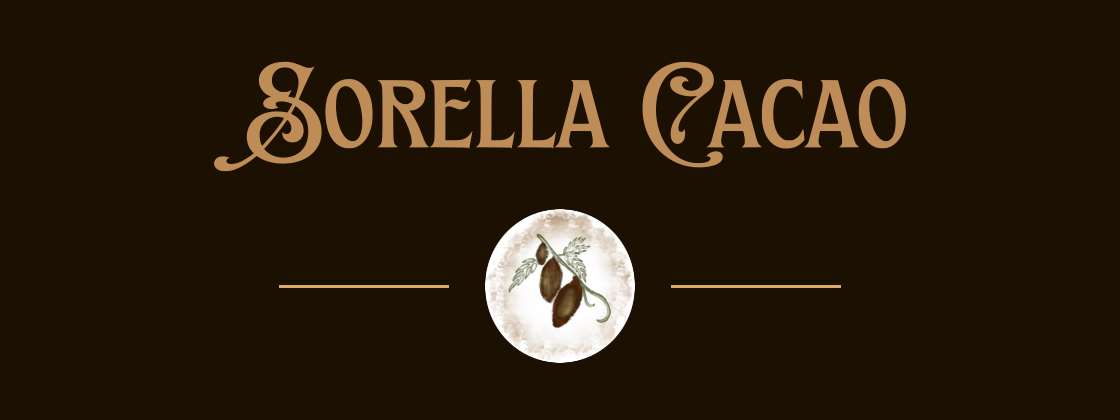
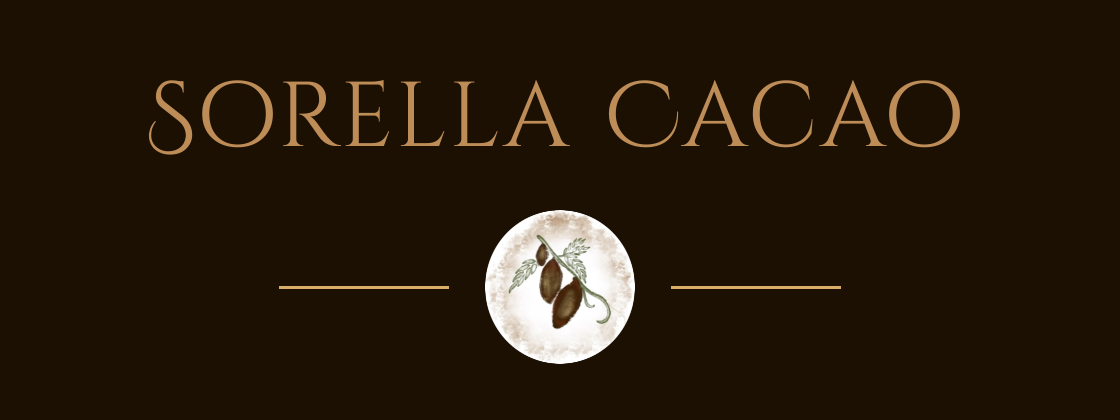
Sorella Cacao wordmark in Cinzel Decorative on the website and email header

diff --git a/src/components/wordmark.tsx b/src/components/wordmark.tsx
@@ -1,14 +1,15 @@
+import { Cinzel_Decorative } from "next/font/google";
+
+const cinzel = Cinzel_Decorative({ subsets: ["latin"], weight: "400" });
+
 /**
- * The "Sorella Cacao" wordmark in EFCO Brookshire, traced from the Canva label artwork
- * (the font itself has no web licence). Inherits the text colour.
+ * The "Sorella Cacao" wordmark, in Cinzel Decorative (as on the automatic emails). Inherits the text
+ * colour; size it with a font size. Hidden from screen readers, so put the name beside it.
  */
-export function Wordmark({ className }: { className?: string }) {
+export function Wordmark({ className = "" }: { className?: string }) {
   return (
-    <svg viewBox="0 0 2251 377" fill="currentColor" aria-hidden className={className}>
-      <path
-        fillRule="evenodd"
-        d="M 225 13.1 C 167.4 18.4,138.9 65.7,169.2 105.8 C 174.2 112.5,183.4 119.3,191.1 122.1 L 197 124.3 190.6 126.4 C 164.4 135.3,164.6 159.5,191 164 C 198.3 165.2,204.6 164.5,214.8 161.4 C 219.6 159.8,221.8 158,218.6 158 C 214 158,209.5 149.6,211.9 145.2 C 215.9 137.7,241.4 138.1,259.9 146.1 L 265 148.2 263.2 151.4 C 262.2 153.1,258.7 159.4,255.4 165.3 C 250.4 174.5,249.2 176,247.5 175.5 C 241.4 173.8,225.1 172,215.5 172 C 162.6 172.1,124.8 200.4,118.9 244.5 C 116.1 266,122.6 287.5,136.7 303.1 L 140.5 307.3 137 310.2 C 131.1 315.2,111.9 327.6,103.6 331.9 C 78.3 344.8,52.9 344.9,53 332.1 C 53 327.7,55.4 324.6,60 322.7 L 63.5 321.3 56.2 319 C 46.7 316.1,32.8 316.4,26.5 319.7 C 6.5 330.2,9.6 355.3,31.7 362.6 C 39.3 365.1,59.3 365.1,69.5 362.6 C 90.8 357.4,118.8 341.6,144.5 320.2 C 147.2 317.9,149.8 316,150.3 316 C 150.8 316,153.2 317.4,155.7 319.1 C 172.6 330.7,196.7 338.3,222.3 339.9 C 281.2 343.6,329.3 321.2,349.5 280.5 C 355.7 268.1,358 258.3,358.7 242.5 C 360.5 198.7,337.4 160.2,296.7 139.1 C 291.7 136.5,286.9 134.1,286.2 133.9 C 285.3 133.6,286.7 129.5,291.1 120 C 294.4 112.6,301.5 96.8,306.7 85 C 317.5 60.4,325.1 45.2,331.5 35.4 C 337 26.9,337 26.5,331.8 29.3 C 328.9 30.8,325.2 31.6,320.5 31.8 C 312.6 32.2,308.9 31.2,287.5 22.3 C 264.4 12.7,250.9 10.8,225 13.1 M 1512.5 13 C 1460.6 18.5,1421.8 47.6,1402.6 95.3 C 1390.2 126,1387.4 167.4,1395.1 205.4 C 1409.7 277.5,1466.2 334.8,1536.5 348.9 C 1582.9 358.2,1636.1 348.6,1645.9 329.2 C 1653.7 313.7,1645 300.5,1627 300.6 C 1615.2 300.7,1604.4 306,1598.1 314.8 L 1596.2 317.5 1600.4 317.2 C 1610.8 316.3,1612.7 327.4,1603.1 332.8 C 1597 336.3,1588.3 338.1,1575 338.6 C 1525.1 340.9,1481.9 312.9,1455.9 261.5 C 1418.8 188.1,1430.6 84.8,1480.4 47.5 C 1494.4 37,1507.4 32.4,1525.5 31.3 C 1549.8 29.9,1574 40.9,1581.3 56.7 C 1584.5 63.6,1584.4 78.3,1581.1 85.7 C 1573.8 102.1,1552.7 109.9,1533.4 103.4 C 1517 97.9,1512.3 81,1525.5 75.4 C 1528.8 74.1,1535.6 74.5,1536.6 76.1 C 1537.7 78,1539.1 76.9,1538.5 74.8 C 1533.3 57.2,1501.4 52.8,1485.7 67.4 C 1477.3 75.2,1477.6 92.7,1486.4 102.7 C 1499.2 117.2,1530.6 126.2,1557.4 123.1 C 1562.4 122.5,1566.5 122.2,1566.6 122.3 C 1566.8 122.4,1562.1 126.3,1556.2 131 C 1532.7 149.8,1507.8 177.1,1495.1 197.9 C 1474.2 232.4,1477.3 273.4,1501 276.6 C 1510.9 277.9,1519.6 272.6,1524.7 262.2 C 1528 255.4,1529 241.8,1526.7 233.5 L 1525.3 228.5 1523.2 232.6 C 1520.9 237.2,1519.5 238,1514.5 238 C 1503.8 238,1503.6 220.2,1513.9 199.5 C 1525.9 175.7,1553.1 145.6,1585 121 C 1605.5 105.2,1609.1 101.9,1613.1 95.8 C 1618.3 87.6,1620.3 80.5,1620.2 70 C 1620.1 46.2,1605.2 29.4,1575.5 19.6 C 1559 14.1,1530.3 11.1,1512.5 13 M 232 31.1 C 212.8 34.4,199 51.3,199 71.5 C 199 88,206.5 99.7,221.6 106.7 C 226.9 109.2,228.6 109.5,238.5 109.5 C 248.9 109.5,249.8 109.3,255.9 106.2 C 259.4 104.5,262.5 103.2,262.7 103.4 C 262.9 103.6,260.4 108.3,257.1 113.9 C 251.4 123.5,251.2 124,253.3 124.4 C 257.9 125.3,270.5 128.3,271.7 128.7 C 274.3 129.7,282.3 103.5,284.1 87.8 C 287.2 61.2,277 40.4,257.3 33 C 250.8 30.6,239.7 29.7,232 31.1 M 440 68.1 C 392.9 71.9,366.3 120.7,371.9 192.4 C 376.2 245.9,397.7 280.9,431.5 289.5 C 439.3 291.5,455.5 291.4,463.3 289.4 C 484.4 284,503.2 265.1,513.1 239.5 C 520.9 219.6,523.5 201.1,522.7 172.7 C 521.6 131.7,510.7 102.7,489 83.5 C 475.2 71.1,460.4 66.5,440 68.1 M 1847.3 68.2 C 1816.4 70.6,1793.6 90.3,1782.1 124.6 C 1776.5 141.2,1774.7 154.6,1774.7 180 C 1774.6 204.2,1775.7 213.9,1780.6 230.9 C 1792.8 273.1,1824.7 296.1,1863.9 291.1 C 1881 288.9,1892.6 283.4,1904.1 272 L 1911.8 264.5 1910.4 250 C 1908.1 226,1907.7 225.1,1903.5 235.5 C 1898.3 248.1,1890.3 257,1879 262.4 C 1873 265.3,1871.8 265.5,1862 265.4 C 1853.6 265.4,1850.6 265,1847 263.3 C 1820.9 251.3,1807.4 211.9,1812 161.5 C 1815.2 126.6,1826.3 103.3,1843.7 94.5 C 1852.1 90.2,1866.5 90.1,1875.5 94.3 C 1886.1 99.3,1896.9 112.3,1902.5 127 C 1904 130.9,1905.5 133.9,1905.7 133.6 C 1906.3 133,1904.3 84.3,1903.4 77.3 C 1902.9 73.2,1902.9 73.2,1900 74.2 C 1897.1 75.2,1894.5 74.7,1876.5 69.6 C 1870.1 67.9,1859 67.3,1847.3 68.2 M 2155 68.1 C 2107.9 71.9,2081.3 120.7,2086.9 192.4 C 2091.2 245.9,2112.7 280.9,2146.5 289.5 C 2154.3 291.5,2170.5 291.4,2178.3 289.4 C 2199.4 284,2218.2 265.1,2228.1 239.5 C 2235.9 219.6,2238.5 201.1,2237.7 172.7 C 2236.6 131.7,2225.7 102.7,2204 83.5 C 2190.2 71.1,2175.4 66.5,2155 68.1 M 836.6 69.8 C 836.2 70.2,806.5 70.7,770.7 71 C 720.8 71.4,706.1 71.8,708 72.6 C 714.7 75.7,719.1 82.8,721.2 93.6 C 723.1 103.7,723.1 255.4,721.2 265.5 C 719.4 275.2,715.7 281.5,710 284.8 L 705.5 287.5 767 288 C 822.3 288.4,828.8 288.7,831.1 290.2 L 833.7 291.8 838.5 265.2 C 841.1 250.5,843.5 237.9,843.8 237.2 C 845 233.8,841.8 236.7,839.2 241.3 C 835.5 247.9,826.1 256.6,819.5 259.6 C 809.3 264.3,804.1 265,779.8 265 L 757 265 757 212 L 757 159.1 760.1 157.4 C 766.5 154.2,772.8 155.2,791.3 162.6 C 799 165.7,801.1 166.2,806.4 165.8 C 817.8 165,826.9 158,833.4 144.9 C 838 135.7,838 133.9,833.5 137.8 C 827.4 143.2,817.2 143.3,804.6 137.9 C 788.9 131.3,777.2 131.6,767.5 138.9 C 764.6 141.1,761.2 144.5,760 146.4 C 758.8 148.4,757.6 150,757.4 150 C 757.2 150,757 137.1,757 121.4 L 757 92.9 783.2 93.2 C 806.1 93.5,809.9 93.7,812.7 95.3 C 816.8 97.5,819.1 100.9,819.2 105 C 819.3 106.7,819.6 108.2,820 108.5 C 820.5 108.8,835.2 80.4,838.7 72.2 C 840 69,838.8 67.5,836.6 69.8 M 538.5 71.9 C 538.8 72.5,539.7 73,540.3 73 C 542.3 73,547.7 78.4,549.9 82.7 C 554.3 91.4,554.5 96,554.5 179.5 C 554.5 264.9,554.3 267.9,549.2 277.3 C 547.5 280.5,545.1 283,542.3 284.7 C 539.9 286.1,538 287.4,538 287.6 C 538 287.8,553.1 288,571.5 288 C 589.9 288,605 287.7,605 287.2 C 605 286.8,603.5 285.8,601.7 284.9 C 600 284,597.2 281.5,595.6 279.3 C 589.9 271.2,589.7 268.8,589.3 207.1 L 588.9 150.7 592.8 153.9 C 595 155.6,599.4 159.8,602.6 163.2 C 622.6 184.8,647.2 239.9,648.7 266.6 C 649.3 276.8,648.1 280.5,642.7 285.2 L 639.5 287.9 672.2 288 C 690.3 288,705 287.6,705 287.2 C 705 286.7,703.8 285.7,702.4 285 C 696.4 281.7,690.4 270.9,682.5 249 C 671.5 218.2,658.4 192.2,645.6 175.4 C 641.4 169.9,641.7 169,647.3 169 C 666 168.9,685.6 153.3,690.4 134.5 C 696.3 112.2,686.2 89.7,665.5 78.8 C 651.6 71.6,652.7 71.7,592.2 71.3 C 554.2 71,538 71.2,538.5 71.9 M 854.5 72 C 854.8 72.5,855.7 73,856.3 73 C 858.3 73,863.7 78.4,865.9 82.7 C 870.3 91.4,870.5 96,870.5 179.5 C 870.5 264.9,870.3 267.9,865.2 277.3 C 863.4 280.6,861.1 283,858 284.8 L 853.5 287.5 910 288 C 941.1 288.3,966.6 288.7,966.7 288.8 C 968.9 291.5,969.9 291.9,970.4 290.3 C 971.6 286.1,980.1 237.7,979.8 236.8 C 979.6 236.2,977.7 238.5,975.7 241.8 C 971.2 249,964.5 255.2,956.9 259 C 947.3 263.9,941 265,922.1 265 L 904.9 265 905.3 180.2 C 905.6 90.6,905.6 90.2,910.3 81.4 C 911.8 78.4,915.3 75,919.6 72.3 C 921.1 71.4,914.3 71.1,887.7 71.1 C 865.4 71,854.1 71.3,854.5 72 M 987.5 72 C 987.8 72.5,988.7 73,989.3 73 C 991.3 73,996.7 78.4,998.9 82.7 C 1003.3 91.4,1003.5 96,1003.5 179.5 C 1003.5 264.9,1003.3 267.9,998.2 277.3 C 996.4 280.6,994.1 283,991 284.8 L 986.5 287.5 1043 288 C 1074.1 288.3,1099.6 288.7,1099.7 288.8 C 1101.9 291.5,1102.9 291.9,1103.4 290.3 C 1104.6 286.1,1113.1 237.7,1112.8 236.8 C 1112.6 236.2,1110.7 238.5,1108.7 241.8 C 1104.2 249,1097.5 255.2,1089.9 259 C 1080.3 263.9,1074 265,1055.1 265 L 1037.9 265 1038.3 180.2 C 1038.6 90.6,1038.6 90.2,1043.3 81.4 C 1044.8 78.4,1048.3 75,1052.6 72.3 C 1054.1 71.4,1047.3 71.1,1020.7 71.1 C 998.4 71,987.1 71.3,987.5 72 M 1163.2 73.2 C 1164.7 74.5,1166.4 76.8,1167 78.3 C 1168.8 83.2,1168.1 96.8,1165.6 108 C 1161 128,1126 261,1123.6 267.4 C 1120.2 276.3,1116.4 281.7,1111.3 284.7 C 1108.9 286,1107 287.4,1107 287.6 C 1107 287.8,1120.1 288,1136.1 288 L 1165.2 288 1160.8 283.7 C 1154.1 277.2,1153.2 268,1157.5 247.5 C 1158.9 240.9,1160 235.4,1160 235.3 C 1160 235.1,1174.7 235.1,1192.7 235.2 L 1225.4 235.5 1227.7 244.5 C 1230.7 256,1231.7 271.2,1230 276.6 C 1229.3 278.7,1226.9 282.2,1224.7 284.2 L 1220.7 288 1254.1 287.9 C 1280.4 287.9,1287.1 287.6,1285.6 286.7 C 1281.1 283.9,1276.2 278.8,1273.8 274.3 C 1270 267.4,1268.5 262,1241.6 162 L 1217.3 71.5 1188.9 71.2 L 1160.5 71 1163.2 73.2 M 1652.2 73.2 C 1653.7 74.5,1655.4 76.8,1656 78.3 C 1657.8 83.2,1657.1 96.8,1654.6 108 C 1650 128,1615 261,1612.6 267.4 C 1609.2 276.3,1605.4 281.7,1600.3 284.7 C 1597.9 286,1596 287.4,1596 287.6 C 1596 287.8,1609.1 288,1625.1 288 L 1654.2 288 1649.8 283.7 C 1643.1 277.2,1642.2 268,1646.5 247.5 C 1647.9 240.9,1649 235.4,1649 235.3 C 1649 235.1,1663.7 235.1,1681.7 235.2 L 1714.4 235.5 1716.7 244.5 C 1719.7 256,1720.7 271.2,1719 276.6 C 1718.3 278.7,1715.9 282.2,1713.7 284.2 L 1709.7 288 1743.1 287.9 C 1769.4 287.9,1776.1 287.6,1774.6 286.7 C 1770.1 283.9,1765.2 278.8,1762.8 274.3 C 1759 267.4,1757.5 262,1730.6 162 L 1706.3 71.5 1677.9 71.2 L 1649.5 71 1652.2 73.2 M 1965.2 73.2 C 1966.7 74.5,1968.4 76.8,1969 78.3 C 1970.8 83.2,1970.1 96.8,1967.6 108 C 1963 128,1928 261,1925.6 267.4 C 1922.2 276.3,1918.4 281.7,1913.3 284.7 C 1910.9 286,1909 287.4,1909 287.6 C 1909 287.8,1922.1 288,1938.1 288 L 1967.2 288 1962.8 283.7 C 1956.1 277.2,1955.2 268,1959.5 247.5 C 1960.9 240.9,1962 235.4,1962 235.3 C 1962 235.1,1976.7 235.1,1994.7 235.2 L 2027.4 235.5 2029.7 244.5 C 2032.7 256,2033.7 271.2,2032 276.6 C 2031.3 278.7,2028.9 282.2,2026.7 284.2 L 2022.7 288 2056.1 287.9 C 2082.4 287.9,2089.1 287.6,2087.6 286.7 C 2083.1 283.9,2078.2 278.8,2075.8 274.3 C 2072 267.4,2070.5 262,2043.6 162 L 2019.3 71.5 1990.9 71.2 L 1962.5 71 1965.2 73.2 M 426.2 93.1 C 413.1 99.6,406.2 117.5,405.3 148 C 403.6 203.4,423.9 257.3,450.1 266.5 C 463.1 271.1,475 265.3,481.8 250.9 C 499.7 212.8,486.2 129.4,457.5 100.7 C 448.2 91.3,435.9 88.4,426.2 93.1 M 2141.2 93.1 C 2128.1 99.6,2121.2 117.5,2120.3 148 C 2118.6 203.4,2138.9 257.3,2165.1 266.5 C 2178.1 271.1,2190 265.3,2196.8 250.9 C 2214.7 212.8,2201.2 129.4,2172.5 100.7 C 2163.2 91.3,2150.9 88.4,2141.2 93.1 M 589.3 102.2 C 590.6 127.8,605.6 146.9,625.8 148.7 C 656.6 151.5,665.3 111.4,637.1 97 C 629.3 93.1,622.5 92,605.1 92 L 588.7 92 589.3 102.2 M 1190.6 111.1 C 1190.3 111.9,1184.9 134.1,1178.5 160.5 C 1172.1 186.9,1166.7 209.3,1166.4 210.2 C 1165.9 211.9,1167.6 212,1192.4 212 C 1207 212,1219 211.7,1219 211.3 C 1219 210.2,1191.8 110.6,1191.4 110.1 C 1191.2 109.9,1190.8 110.3,1190.6 111.1 M 1679.6 111.1 C 1679.3 111.9,1673.9 134.1,1667.5 160.5 C 1661.1 186.9,1655.7 209.3,1655.4 210.2 C 1654.9 211.9,1656.6 212,1681.4 212 C 1696 212,1708 211.7,1708 211.3 C 1708 210.2,1680.8 110.6,1680.4 110.1 C 1680.2 109.9,1679.8 110.3,1679.6 111.1 M 1992.6 111.1 C 1992.3 111.9,1986.9 134.1,1980.5 160.5 C 1974.1 186.9,1968.7 209.3,1968.4 210.2 C 1967.9 211.9,1969.6 212,1994.4 212 C 2009 212,2021 211.7,2021 211.3 C 2021 210.2,1993.8 110.6,1993.4 110.1 C 1993.2 109.9,1992.8 110.3,1992.6 111.1 M 271.4 160.2 C 269.9 163.1,267 168.5,264.9 172.2 C 262.7 175.8,261 179.1,261 179.4 C 261 179.7,263.4 181.2,266.2 182.6 C 278.4 188.8,286.8 195.9,292.6 205.2 C 311.9 235.8,297.2 272,265.6 272 C 246.7 272,233.7 261,232.3 243.8 C 231.8 237.9,231.9 237.6,233.4 239.6 C 237.2 244.8,247.8 246.6,253.6 243.1 C 260.1 239.2,263.2 228.1,260.6 218.1 C 258.6 210.3,251.7 199.9,248.6 200 C 248 200.1,245 203.7,242 208.2 C 227.4 229.9,201.2 263.1,183.1 282.8 C 178.4 287.9,174.5 292.5,174.5 293.1 C 174.5 295.1,186.2 305.7,192.7 309.6 C 219.2 325.5,256.8 324.8,282.2 308.1 C 304.5 293.4,316.1 269.5,316.1 238.1 C 316 210.3,307.1 186.4,289.8 167.4 C 285.3 162.6,276.1 155,274.6 155 C 274.3 155,272.8 157.4,271.4 160.2 M 207.5 190 C 185.3 193,167.3 209.5,161.3 232.4 C 157.8 245.6,159.8 267.6,165.4 278.8 L 167.6 283.2 180.2 269.3 C 194.6 253.5,205.4 240.6,215.6 226.9 C 225.5 213.8,238 195.4,238 194.2 C 238 192.7,232.7 191.2,224 190 C 215.6 188.9,215.8 188.9,207.5 190"
-      />
-    </svg>
+    <span aria-hidden className={`${cinzel.className} block whitespace-nowrap leading-none tracking-wide ${className}`}>
+      Sorella Cacao
+    </span>
   );
 }

diff --git a/src/app/page.tsx b/src/app/page.tsx
@@ -25,7 +25,7 @@ export default async function Home() {
         <div className="relative px-5 pt-20 text-center">
           <h1 className="text-toffee drop-shadow-lg">
             <span className="sr-only">{site.name}</span>
-            <Wordmark className="mx-auto w-[min(88vw,46rem)]" />
+            <Wordmark className="text-[clamp(2.2rem,9.5vw,6rem)]" />
           </h1>
           <p className="mx-auto mt-6 max-w-xl text-xl italic text-cream/90 sm:text-2xl">
             {site.tagline}

diff --git a/src/components/footer.tsx b/src/components/footer.tsx
@@ -17,7 +17,7 @@ export function Footer() {
               height={53}
               className="rounded-full"
             />
-            <Wordmark className="h-7 w-auto text-toffee" />
+            <Wordmark className="text-[27px] text-toffee" />
           </Link>
           <p className="mt-4 max-w-xs italic text-cream/60">{site.tagline}</p>
         </div>

diff --git a/src/components/header.tsx b/src/components/header.tsx
@@ -47,7 +47,7 @@ export function Header() {
             className="rounded-full"
             priority
           />
-          <Wordmark className="h-[22px] w-auto text-toffee sm:h-6" />
+          <Wordmark className="text-[15px] text-toffee sm:text-2xl" />
         </Link>
 
         <nav className="hidden items-center gap-9 md:flex" aria-label="Main">
